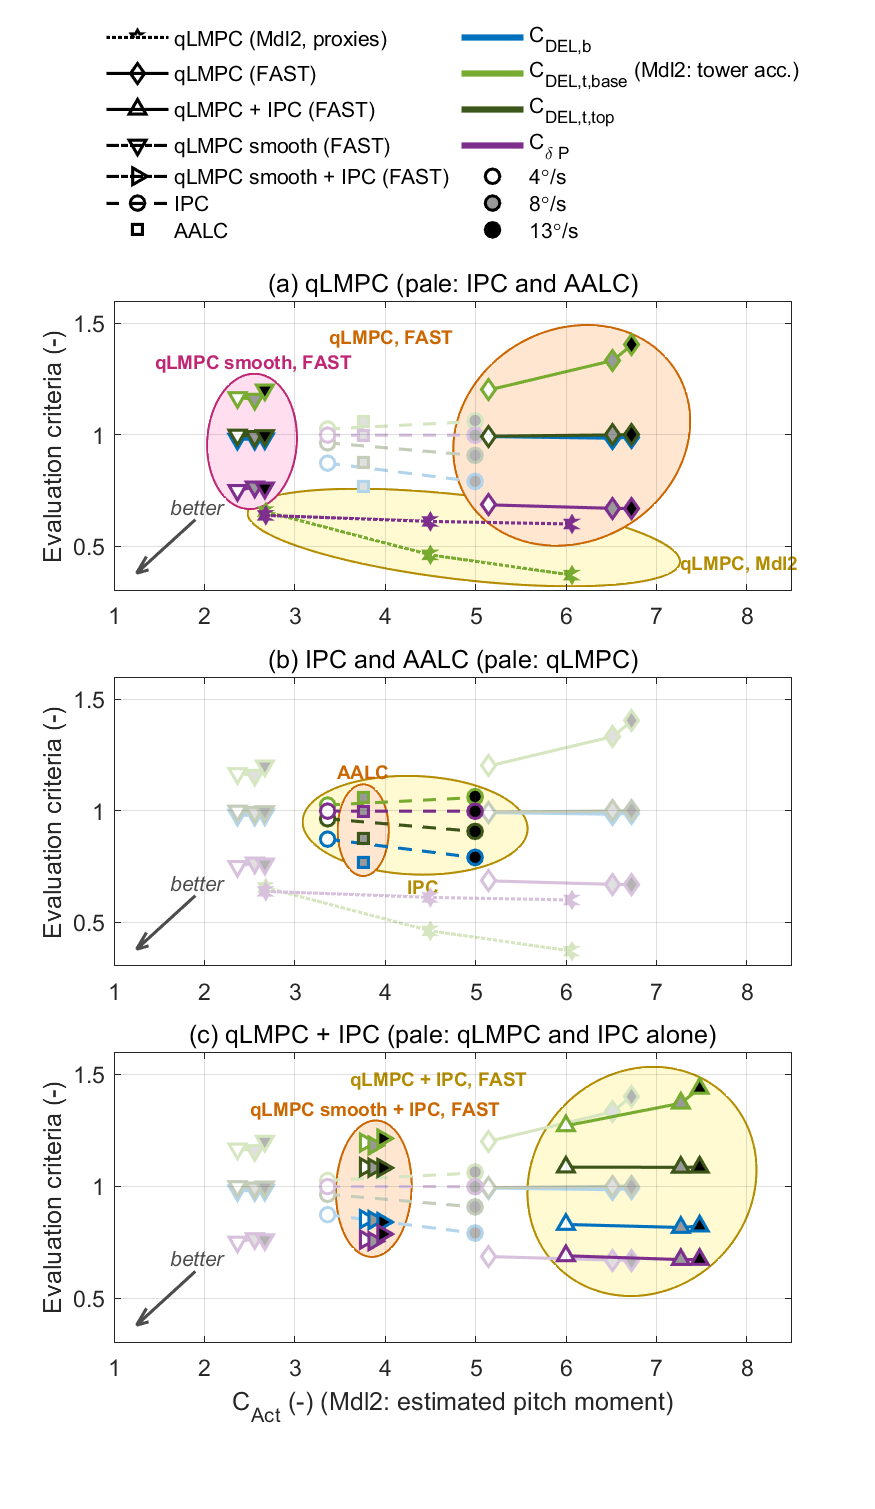
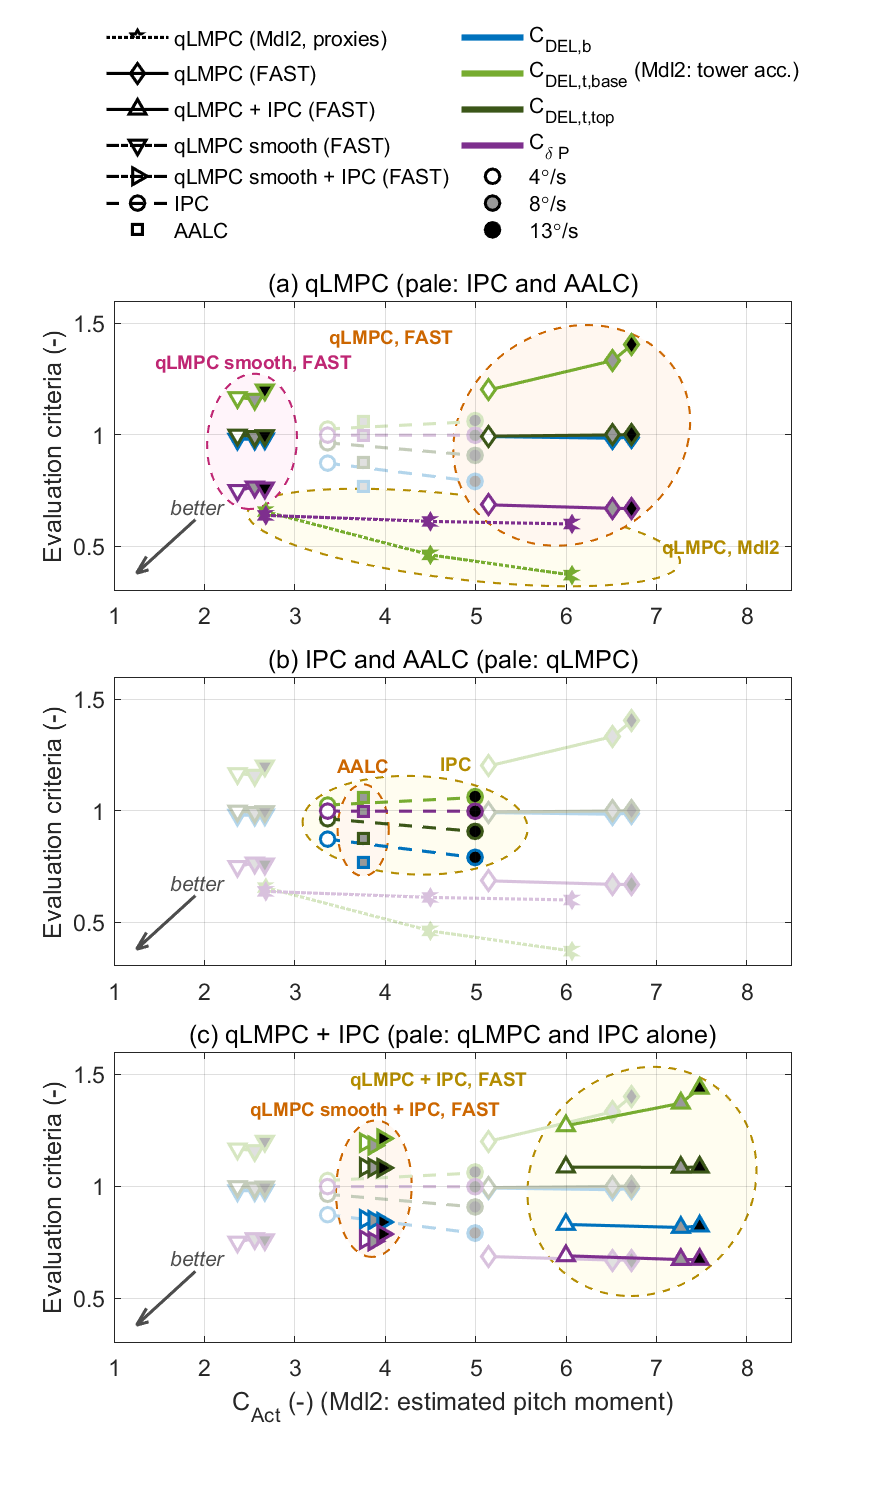
Pareto plot: dashed ovals with very light fill, label positions

diff --git a/plotParetoVerif2.m b/plotParetoVerif2.m
@@ -63,16 +63,18 @@ nP = numel(panels);
 grpCol = [1, 0.9, 0; 1, 0.45, 0; 1, 0.3, 0.65];
 grpAlpha = 0.18;
 grpFill = (1 - grpAlpha) + grpAlpha*grpCol;
+ovalAlpha = 0.06; % ovals: very light fill and dashed outline
+ovalFill = (1 - ovalAlpha) + ovalAlpha*grpCol;
 grpDark = [0.7, 0.55, 0; 0.8, 0.4, 0; 0.75, 0.15, 0.45];
 % Oval labels: controller, label, position of the label at the oval (right,
-% left, above, below, aboveleft)
-ovalLabel = {"qLMPC", 'qLMPC, Mdl2', 'right';
-    "qLMPC flapNotch", 'qLMPC, FAST', 'aboveleft';
-    "qLMPC flapNotchSmooth12", 'qLMPC smooth, FAST', 'above';
-    "IPC", 'IPC', 'below';
-    "AALC", 'AALC', 'above';
-    "qLMPC flapNotchIPC", 'qLMPC + IPC, FAST', 'aboveleft';
-    "qLMPC flapNotchSmooth12IPC", 'qLMPC smooth + IPC, FAST', 'above'};
+% left, above, below, aboveleft), shift [dx, dy] in data units
+ovalLabel = {"qLMPC", 'qLMPC, Mdl2', 'right', [-0.2, 0.07];
+    "qLMPC flapNotch", 'qLMPC, FAST', 'aboveleft', [0, 0];
+    "qLMPC flapNotchSmooth12", 'qLMPC smooth, FAST', 'above', [0, 0];
+    "IPC", 'IPC', 'above', [0.5, 0];
+    "AALC", 'AALC', 'above', [0, 0.03];
+    "qLMPC flapNotchIPC", 'qLMPC + IPC, FAST', 'aboveleft', [0, 0];
+    "qLMPC flapNotchSmooth12IPC", 'qLMPC smooth + IPC, FAST', 'above', [0, 0]};
 yMax = max(1.1, ceil(10*max([T.C_DEL_b; T.C_DEL_t; T.C_DEL_tt; T.C_dP; T.C_TwrAcc], [], 'omitnan'))/10) + 0.1; % room for the ovals
 xMax = ceil(max([T.C_Act; T.C_ActEst], [], 'omitnan'));
 figure(1); clf;
@@ -84,7 +86,7 @@ for idxP = 1:nP
     set(ax, 'Layer', 'top');
     % Ovals around all points of each bright controller, behind the curves
     for g = 1:numel(panels{idxP})
-        plotOval(ax, T, panels{idxP}(g), ovalLabel, grpFill(g, :), grpDark(g, :));
+        plotOval(ax, T, panels{idxP}(g), ovalLabel, ovalFill(g, :), grpDark(g, :));
     end
     for k = 1:size(ctrl, 1)
         if any(ctrl{k, 1} == panelsPale{idxP})
@@ -244,7 +246,7 @@ S = P./[rx, ry];
 [V, D] = eig(A);
 phi = linspace(0, 2*pi, 100);
 E = (c + V*diag(1./sqrt(diag(D)))*[cos(phi); sin(phi)]).*[rx; ry];
-patch(ax, E(1, :), E(2, :), colFill, 'EdgeColor', colDark, 'LineWidth', 1, ...
+patch(ax, E(1, :), E(2, :), colFill, 'EdgeColor', colDark, 'LineWidth', 1, 'LineStyle', '--', ...
     'HandleVisibility', 'off');
 idx = [ovalLabel{:, 1}] == name;
 lab = ovalLabel{idx, 2};
@@ -257,7 +259,8 @@ switch ovalLabel{idx, 3}
     case 'aboveleft', p = {xMin, yMax, 'right', 'top'};
     otherwise, p = {E(1, iB), yMin, 'center', 'top'};
 end
-text(ax, p{1}, p{2}, lab, 'Color', colDark, 'FontSize', 9, 'FontWeight', 'bold', ...
+dxy = ovalLabel{idx, 4};
+text(ax, p{1} + dxy(1), p{2} + dxy(2), lab, 'Color', colDark, 'FontSize', 9, 'FontWeight', 'bold', ...
     'HorizontalAlignment', p{3}, 'VerticalAlignment', p{4});
 end
 
